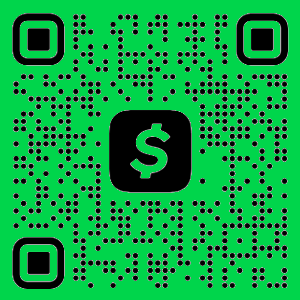
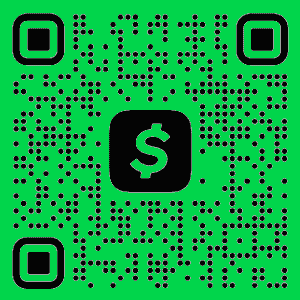
replace cashqr and optimized images

diff --git a/docs/payment.html b/docs/payment.html
@@ -50,7 +50,7 @@
                 <p>https://cash.app/<span class="b">$sussywin</span></p>
             </div>
         </a>
-        <div class="paybox ml">
+        <div class="ml">
             <img src="./assets/images/cashqr.png"> 
         </div>
         
